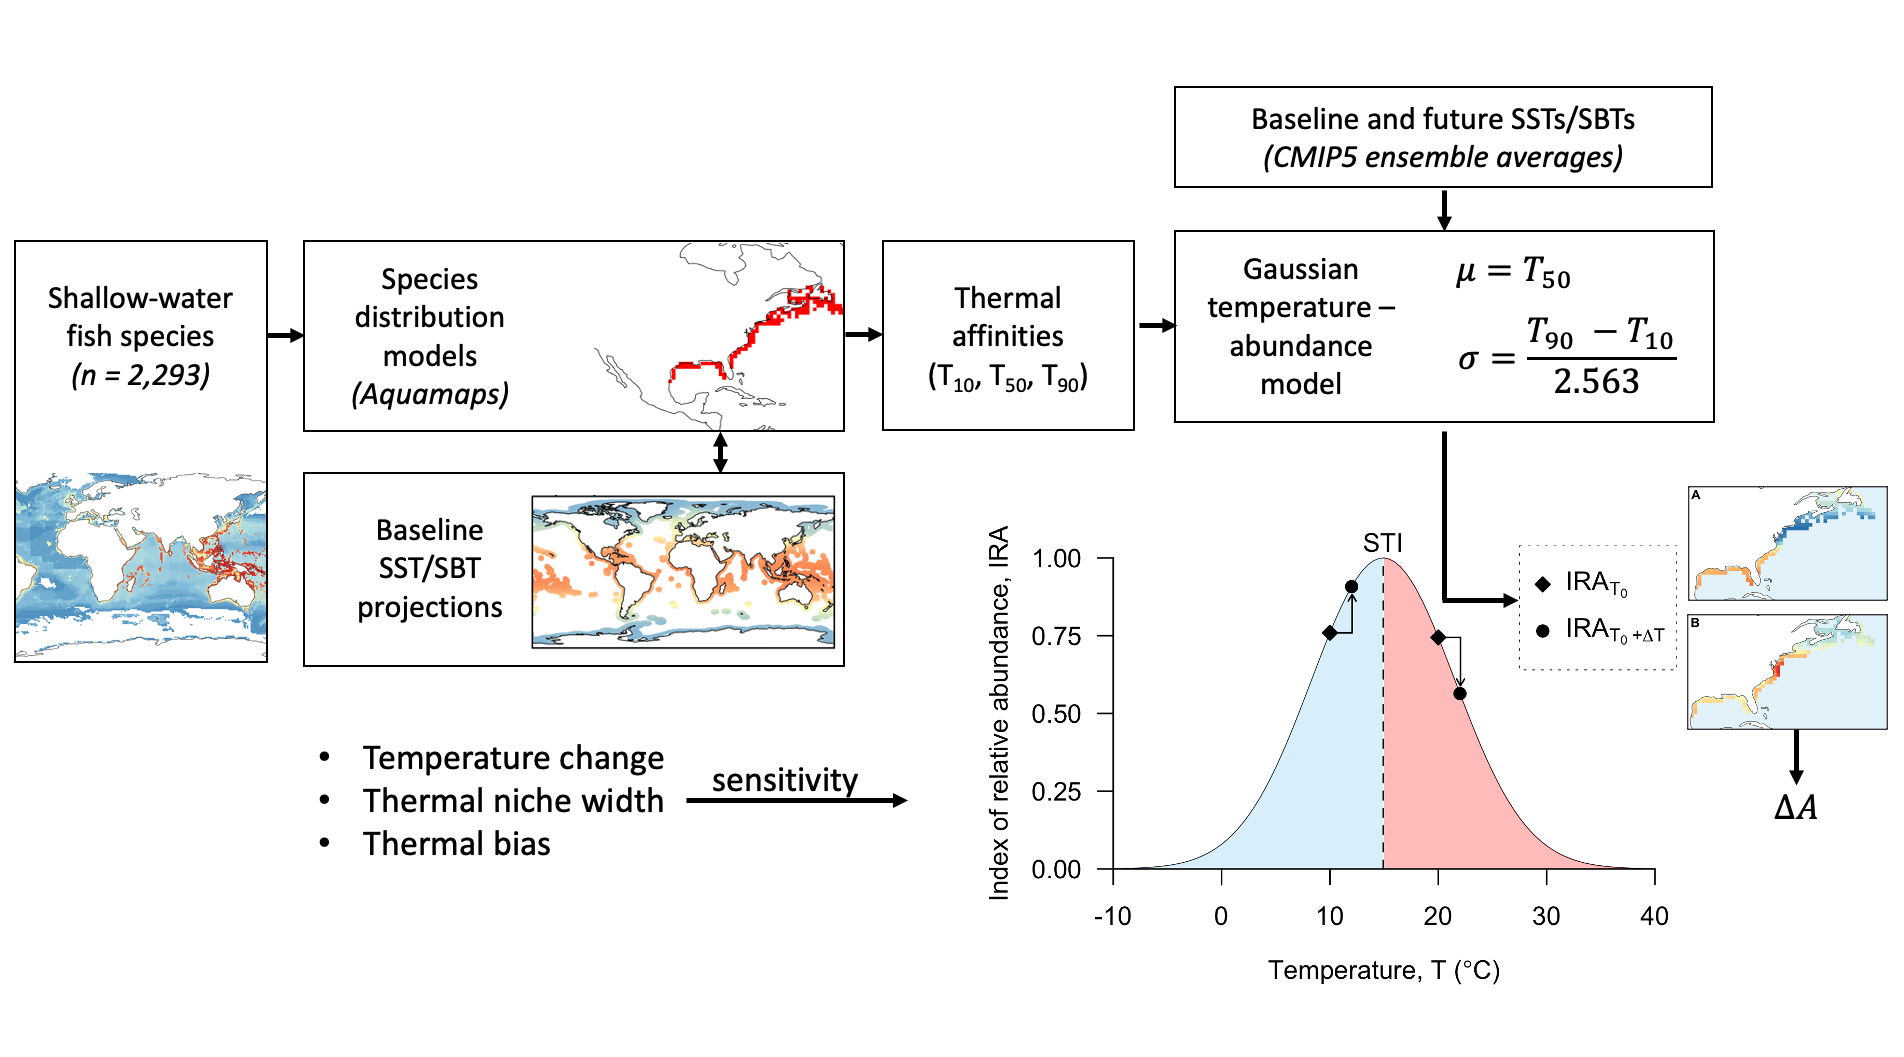
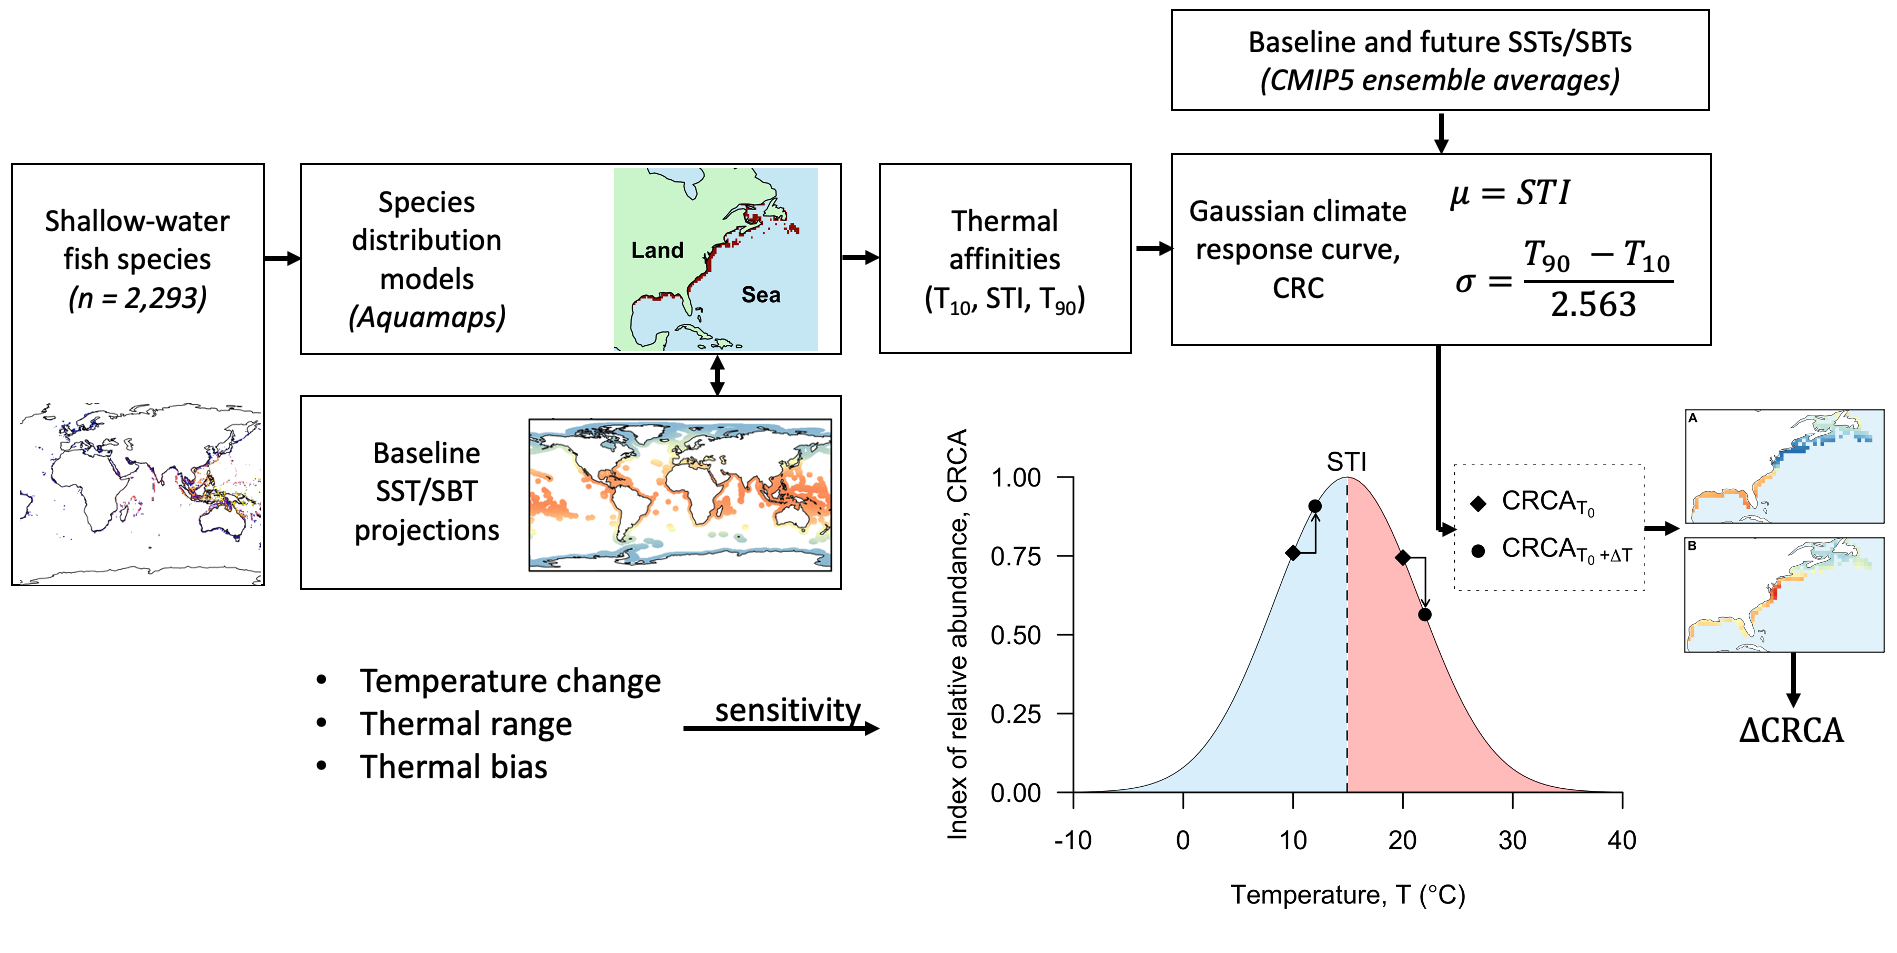
Update README Figure 1.

diff --git a/README.md b/README.md
@@ -26,9 +26,9 @@ Project`, for Lavender, Fox and Burrows (in review). Modelling the
 impacts of climate change on the relative abundance of shallow-water
 marine fish at a global scale.
 
-In this work, we developed an approach based on species’ thermal niches
-to predict changes in the relative abundance of more than 2,000
-shallow-water marine fish species under future temperature change
+In this work, we developed an approach based on species’ thermal
+affinities to predict changes in the relative abundance of more than
+2,000 shallow-water marine fish species under future temperature change
 scenarios (Figure 1).
 
 <img src="README_overview.png"/>
@@ -40,26 +40,28 @@ species. For each species, we overlaid a model of occurrence with
 baseline sea surface temperature (SST) or sea bottom temperature (SBT)
 data to estimate quantiles of observed variation in occupied
 temperatures, from which we inferred thermal affinities. For example, we
-took the median temperature across the species’ range (T50) as the
-optimum temperature for that species and the 10th and 90th percentiles
-as the species’ thermal range, respectively. We used these to
-parameterise a Gaussian model relating temperature to an index of
-relative abundance, with a mean equal to the optimum temperature and a
-variance based on the thermal range. The central premise of this model
-is that species tend to be more abundant around thermal optima and less
-abundant elsewhere; this is known as the abundance-centre hypothesis. To
-predict change in the index of relative abundance, we fed this model
-with baseline and future temperatures derived from CMIP5 (Coupled Model
-Intercomparison Phase Project Phase 5) models. For populations living
-below the optimum temperature, in the blue half of the Gaussian
-distribution shown, an increase in temperature is assumed to lead to an
-increase in relative abundance. And for populations living above the
-optimum temperature, in the red half, an increase in temperature is
-assumed to lead to a decline in relative abundance. In this way, for
-every species, we predicted the index of relative abundance in each grid
-cell in which it currently occurs under baseline and future temperatures
-and calculated the change in the index of relative abundance. We then
-synthesised patterns across all species and exclusive economic zones.*
+took the median temperature across the species’ range (the species’
+thermal index, STI) as the optimum temperature for that species and the
+10th (T10) and 90th (T90) percentiles to define the species’ thermal
+range (T90 - T10). We used these to parameterise a climate response
+curve: a Gaussian model relating temperature to an index of relative
+abundance, termed the climate response curve abundance index (CRCA),
+with a mean equal to the optimum temperature and a variance based on the
+thermal range. The central premise of this model is that species tend to
+be more abundant around thermal optima and less abundant elsewhere; this
+is known as the abundance-centre hypothesis. To predict change in the
+index of relative abundance, we fed this model with baseline and future
+temperatures derived from CMIP5 (Coupled Model Intercomparison Phase
+Project Phase 5) models. For populations living below the optimum
+temperature, in the blue half of the Gaussian distribution shown, an
+increase in temperature is assumed to lead to an increase in relative
+abundance. And for populations living above the optimum temperature, in
+the red half, an increase in temperature is assumed to lead to a decline
+in relative abundance. In this way, for every species, we predicted the
+relative abundance in each grid cell in which it currently occurs under
+baseline and future temperatures and calculated the change in relative
+abundance. We then synthesised patterns across all species and Exclusive
+Economic Zones.*
 
 ## Structure
 
@@ -199,7 +201,8 @@ in the online version of this repository.
       - distribution;
       - commercial importance;
 
-2.  `analyse_example_thermal_niche.R` analyses an example thermal niche.
+2.  `analyse_example_thermal_niche.R` analyses an example thermal niche
+    and `analyse_sdm_aquamaps_example.R` analyses an example SDM.
 
 3.  `analyse_temp.R` analyses SST and SBT temperature projections, for
     all scenarios.
